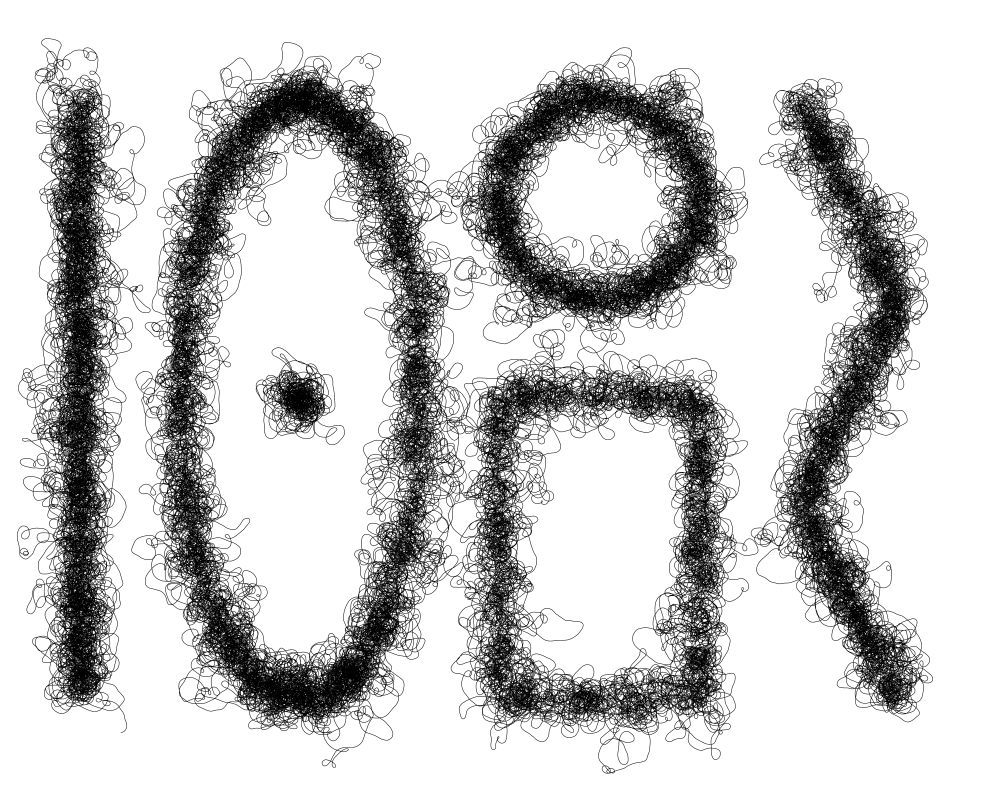
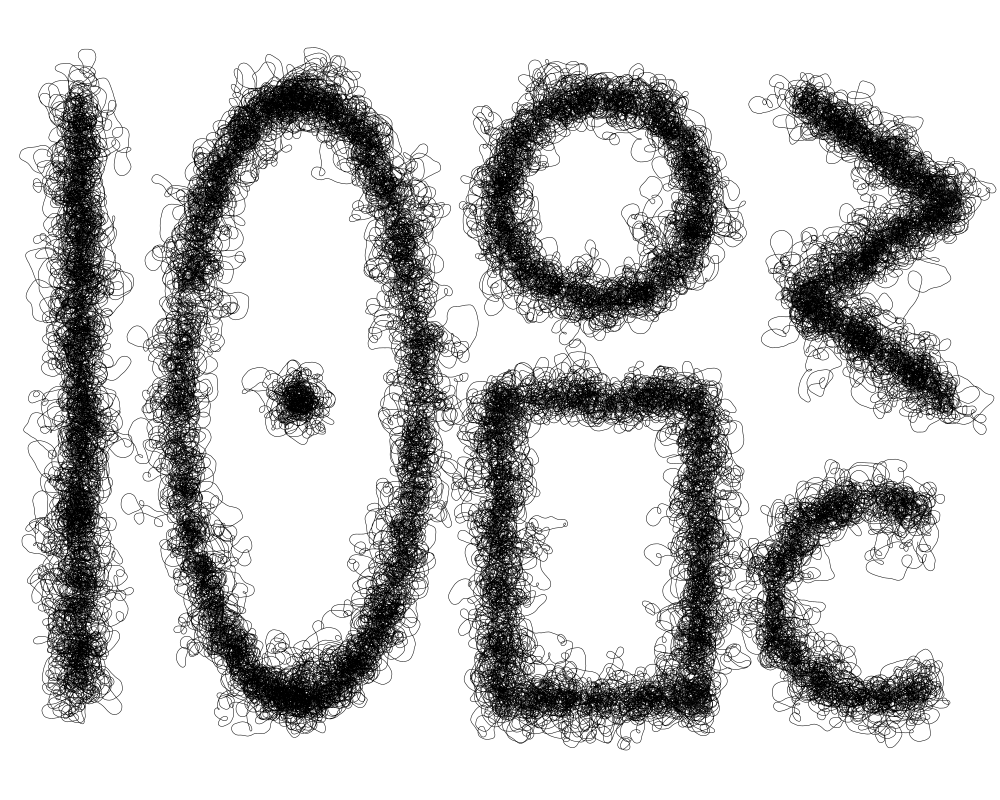
move context into pen. arc. dot.

diff --git a/scribble.go b/scribble.go
@@ -13,10 +13,11 @@ import (
 // Pen represents a pen drawing a scribbled line.
 type Pen struct {
 	x, y, vx, vy, vr, damp, step, curl, pull, reverse float64
+	context                                           *cairo.Context
 }
 
 // NewPen creates a new pen object.
-func NewPen(x, y float64) *Pen {
+func NewPen(context *cairo.Context, x, y float64) *Pen {
 	Pen := &Pen{
 		x:       x,
 		y:       y,
@@ -26,6 +27,7 @@ func NewPen(x, y float64) *Pen {
 		damp:    0.7,
 		step:    1,
 		reverse: 0.5,
+		context: context,
 	}
 	Pen.SetPull(30)
 	Pen.SetCurl(30)
@@ -41,6 +43,7 @@ func (p *Pen) Position() (float64, float64) {
 func (p *Pen) MoveTo(x, y float64) {
 	p.x = x
 	p.y = y
+	p.context.MoveTo(x, y)
 }
 
 // SetCurl sets how much curl the scribbles will have.
@@ -80,11 +83,11 @@ func (p *Pen) SetStep(s float64) {
 }
 
 // Update updates and draws the path of this pen.
-func (p *Pen) Update(context *cairo.Context) {
-	context.MoveTo(p.x, p.y)
+func (p *Pen) Update() {
+	p.context.MoveTo(p.x, p.y)
 	p.x += p.vx
 	p.y += p.vy
-	context.LineTo(p.x, p.y)
+	p.context.LineTo(p.x, p.y)
 
 	p.vr += random.FloatRange(-p.curl*p.reverse, p.curl)
 	p.vx += math.Cos(p.vr) * p.step
@@ -105,7 +108,7 @@ func (p *Pen) MoveTowards(x, y float64) {
 
 // Line draws a single scribbled line from one point to another,
 // with a specified number of iterations.
-func (p *Pen) Line(context *cairo.Context, x0, y0, x1, y1 float64, count int) {
+func (p *Pen) Line(x0, y0, x1, y1 float64, count int) {
 	countf := float64(count)
 	p.MoveTo(x0, y0)
 	for i := range count {
@@ -113,14 +116,14 @@ func (p *Pen) Line(context *cairo.Context, x0, y0, x1, y1 float64, count int) {
 		x := blmath.Map(f, 0, countf, x0, x1)
 		y := blmath.Map(f, 0, countf, y0, y1)
 		p.MoveTowards(x, y)
-		p.Update(context)
+		p.Update()
 	}
-	context.Stroke()
+	p.context.Stroke()
 }
 
 // Circle draws a single scribbled circle,
 // with the specified center, radius and number of iterations.
-func (p *Pen) Circle(context *cairo.Context, xc, yc, radius float64, count int) {
+func (p *Pen) Circle(xc, yc, radius float64, count int) {
 	countf := float64(count)
 	p.MoveTo(xc+radius, yc)
 	for i := range count {
@@ -129,14 +132,37 @@ func (p *Pen) Circle(context *cairo.Context, xc, yc, radius float64, count int) 
 		x := xc + math.Cos(a)*radius
 		y := yc + math.Sin(a)*radius
 		p.MoveTowards(x, y)
-		p.Update(context)
+		p.Update()
 	}
-	context.Stroke()
+	p.context.Stroke()
+}
+
+// Arc draws a single scribbled arc,
+// with the specified center, radius, start and end angle, cw/ccw, and number of iterations.
+func (p *Pen) Arc(xc, yc, radius, start, end float64, ccw bool, count int) {
+	countf := float64(count)
+	p.MoveTo(xc+math.Cos(start)*radius, yc+math.Sin(start)*radius)
+	start = blmath.WrapTau(start)
+	end = blmath.WrapTau(end)
+	for i := range count {
+		f := float64(i)
+		a := f / countf * (end - start)
+		if ccw {
+			a = start - a
+		} else {
+			a = start + a
+		}
+		x := xc + math.Cos(a)*radius
+		y := yc + math.Sin(a)*radius
+		p.MoveTowards(x, y)
+		p.Update()
+	}
+	p.context.Stroke()
 }
 
 // Ellipse draws a single scribbled ellipse,
 // with the specified center, radii and number of iterations.
-func (p *Pen) Ellipse(context *cairo.Context, xc, yc, xr, yr float64, count int) {
+func (p *Pen) Ellipse(xc, yc, xr, yr float64, count int) {
 	countf := float64(count)
 	p.MoveTo(xc+xr, yc)
 	for i := range count {
@@ -145,47 +171,56 @@ func (p *Pen) Ellipse(context *cairo.Context, xc, yc, xr, yr float64, count int)
 		x := xc + math.Cos(a)*xr
 		y := yc + math.Sin(a)*yr
 		p.MoveTowards(x, y)
-		p.Update(context)
+		p.Update()
 	}
-	context.Stroke()
+	p.context.Stroke()
 }
 
 // Rectangle draws a single scribbled rectangle
 // with the specified x, y, width, height and number of iterations.
-func (p *Pen) Rectangle(context *cairo.Context, x0, y0, w, h float64, count int) {
+func (p *Pen) Rectangle(x0, y0, w, h float64, count int) {
 	countf := float64(count)
 	p.MoveTo(x0, y0)
 	xCount := countf / 2 * w / (w + h)
 	yCount := countf/2 - xCount
-	p.Line(context, x0, y0, x0+w, y0, int(xCount))
-	p.Line(context, x0+w, y0, x0+w, y0+h, int(yCount))
-	p.Line(context, x0, y0+h, x0+w, y0+h, int(xCount))
-	p.Line(context, x0, y0, x0, y0+h, int(yCount))
-	context.Stroke()
+	p.Line(x0, y0, x0+w, y0, int(xCount))
+	p.Line(x0+w, y0, x0+w, y0+h, int(yCount))
+	p.Line(x0, y0+h, x0+w, y0+h, int(xCount))
+	p.Line(x0, y0, x0, y0+h, int(yCount))
+	p.context.Stroke()
 }
 
-// TODO:
-// Triangle
-// Ellipse
-
 // Path draws a scribbled path between a list of points.
-func (p *Pen) Path(context *cairo.Context, points geom.PointList, closed bool, count int) {
+func (p *Pen) Path(points geom.PointList, closed bool, count int) {
 	countf := float64(count)
 	length := points.Length()
 	if closed {
 		length += points.First().Distance(points.Last())
 	}
-	context.MoveTo(points.First().X, points.First().Y)
+	p.MoveTo(points.First().X, points.First().Y)
 	for i := range len(points) - 1 {
 		p0 := points[i]
 		p1 := points[i+1]
 		dist := p0.Distance(p1)
-		p.Line(context, p0.X, p0.Y, p1.X, p1.Y, int(countf/length*dist))
+		p.Line(p0.X, p0.Y, p1.X, p1.Y, int(countf/length*dist))
 	}
 	if closed {
 		dist := points.First().Distance(points.Last())
-		p.Line(context, points.First().X, points.First().Y, points.Last().X, points.Last().Y, int(countf/length*dist))
+		p.Line(points.First().X, points.First().Y, points.Last().X, points.Last().Y, int(countf/length*dist))
 	}
-	context.Stroke()
-
+	p.context.Stroke()
 }
+
+// Dot scribbles a dot at the specified location.
+func (p *Pen) Dot(x, y float64, count int) {
+	p.MoveTo(x, y)
+	for range count {
+		p.MoveTowards(x, y)
+		p.Update()
+	}
+	p.context.Stroke()
+}
+
+// TODO:
+// Arc
+// beziers

diff --git a/examples/main.go b/examples/main.go
@@ -24,24 +24,21 @@ func main() {
 
 func scene1(context *cairo.Context, width, height, percent float64) {
 	context.BlackOnWhite()
-	p := scribble.NewPen(0, 0)
+	p := scribble.NewPen(context, 0, 0)
 
-	p.Line(context, 80, 100, 80, 700, 50000)
-	p.Ellipse(context, 300, 400, 120, 300, 100000)
-	p.Circle(context, 600, 200, 100, 50000)
-	p.Rectangle(context, 500, 400, 200, 300, 50000)
+	p.Line(80, 100, 80, 700, 50000)
+	p.Ellipse(300, 400, 120, 300, 100000)
+	p.Dot(300, 400, 5000)
+	p.Circle(600, 200, 100, 50000)
+	p.Rectangle(500, 400, 200, 300, 70000)
 
 	path := geom.NewPointList()
 	path.AddXY(800, 100)
-	path.AddXY(900, 300)
-	path.AddXY(800, 500)
-	path.AddXY(900, 700)
-	p.Path(context, path, false, 50000)
+	path.AddXY(950, 200)
+	path.AddXY(800, 300)
+	path.AddXY(950, 400)
+	p.Path(path, false, 50000)
 
-	p.MoveTo(300, 400)
-	for range 5000 {
-		p.MoveTowards(300, 400)
-		p.Update(context)
-	}
-	context.Stroke()
+	p.Arc(875, 600, 100, 1, -1, false, 30000)
+
 }
